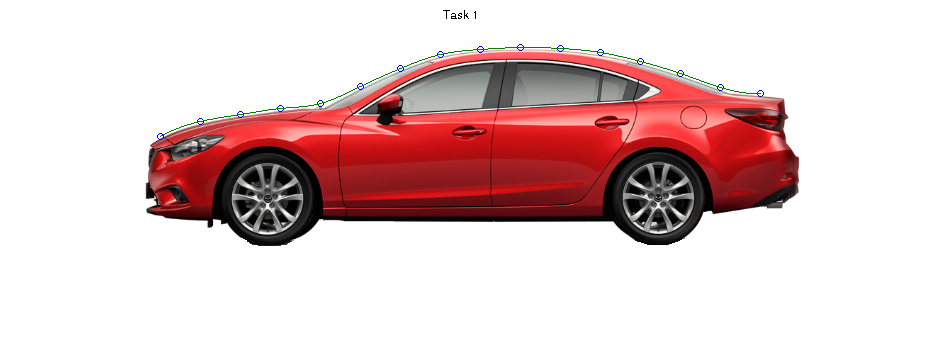
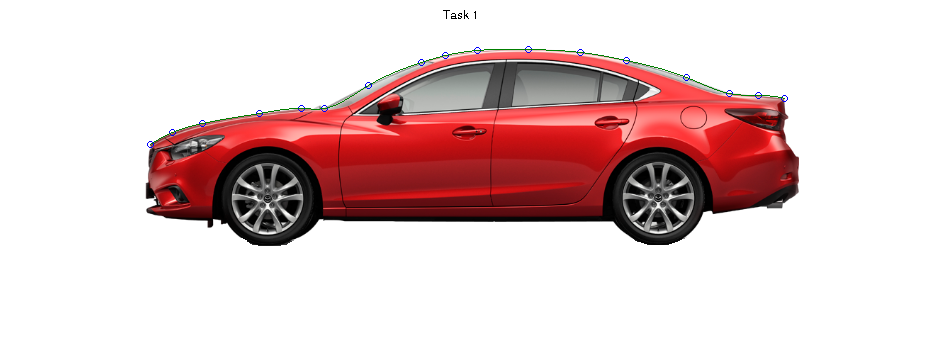
Fixed task1.m

diff --git a/projekt 2/Final/task1.m b/projekt 2/Final/task1.m
@@ -3,7 +3,7 @@ I = imread('redCar.png');
 imshow(I);
 hold on
 title('Task 1');
-[x,y] = getKnots(I,40);
+[x,y] = getPredefinedKnots('../pointData/roof.mat');
 xq = [min(x):max(x)];
 s = spline(x,y,xq);
-plot(x,ones(length(y),1)*258 - y,'o', xq, ones(1,length(s))*258 - s);
+plot(x,y,'o', xq, s);
